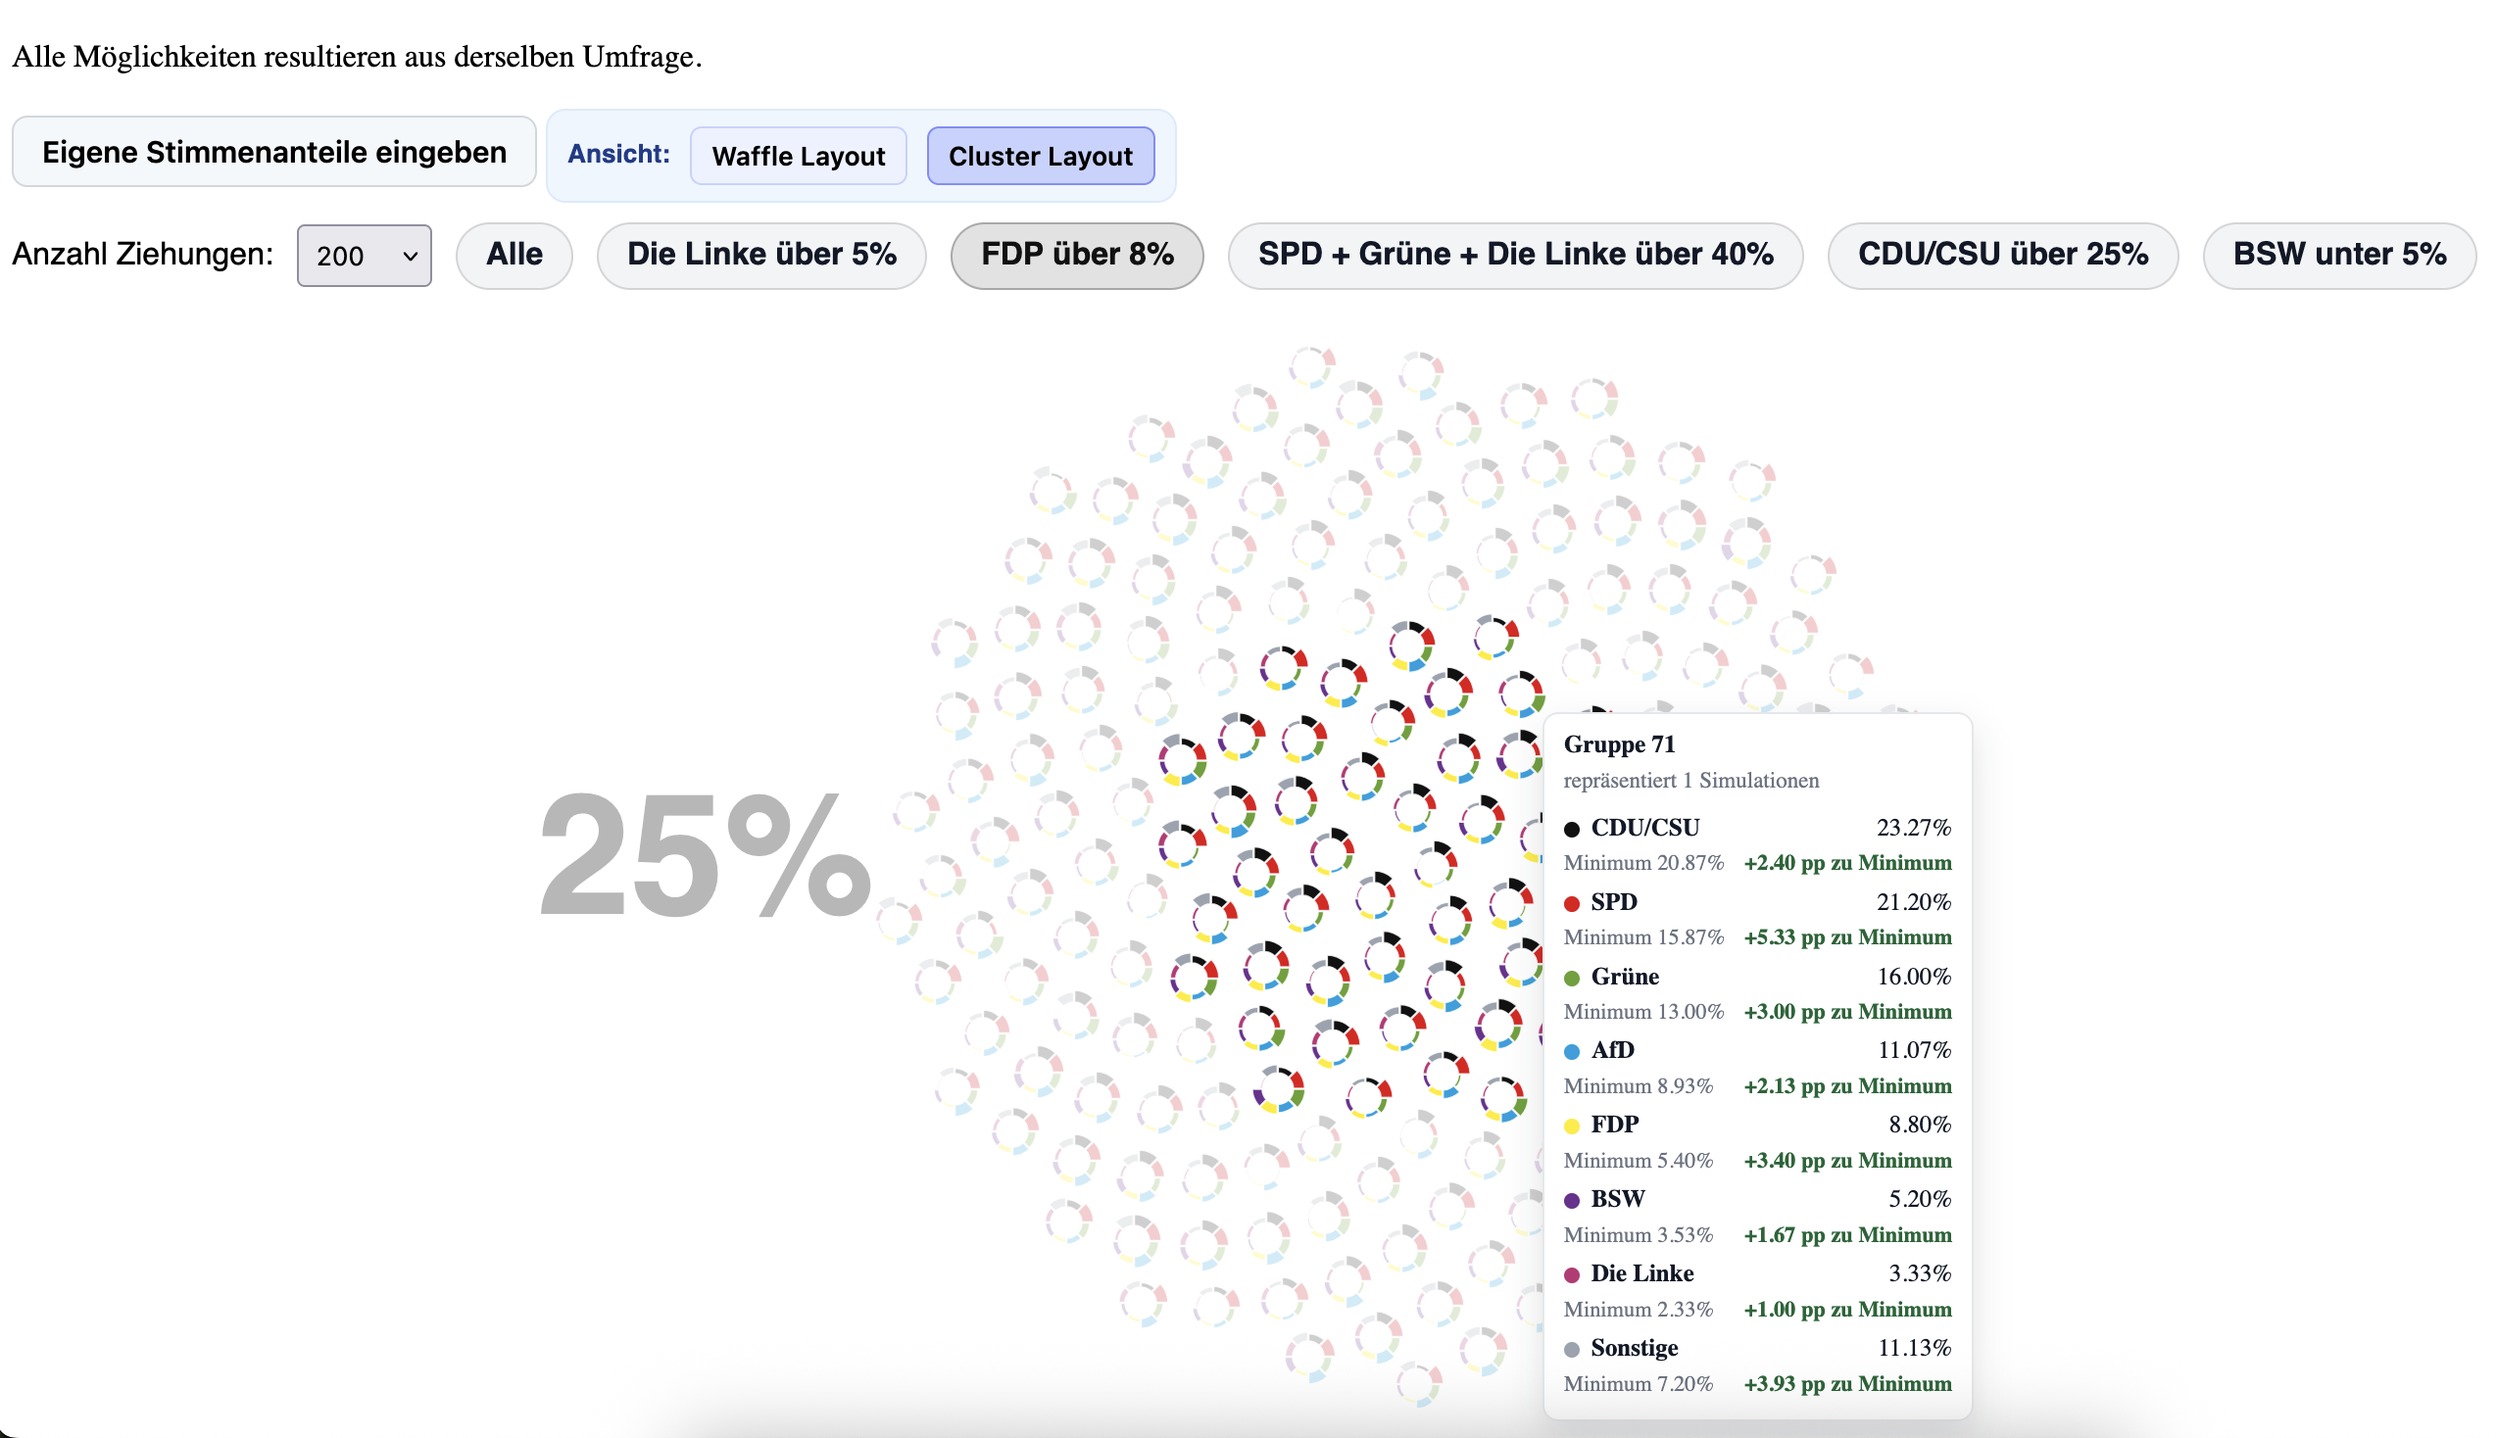
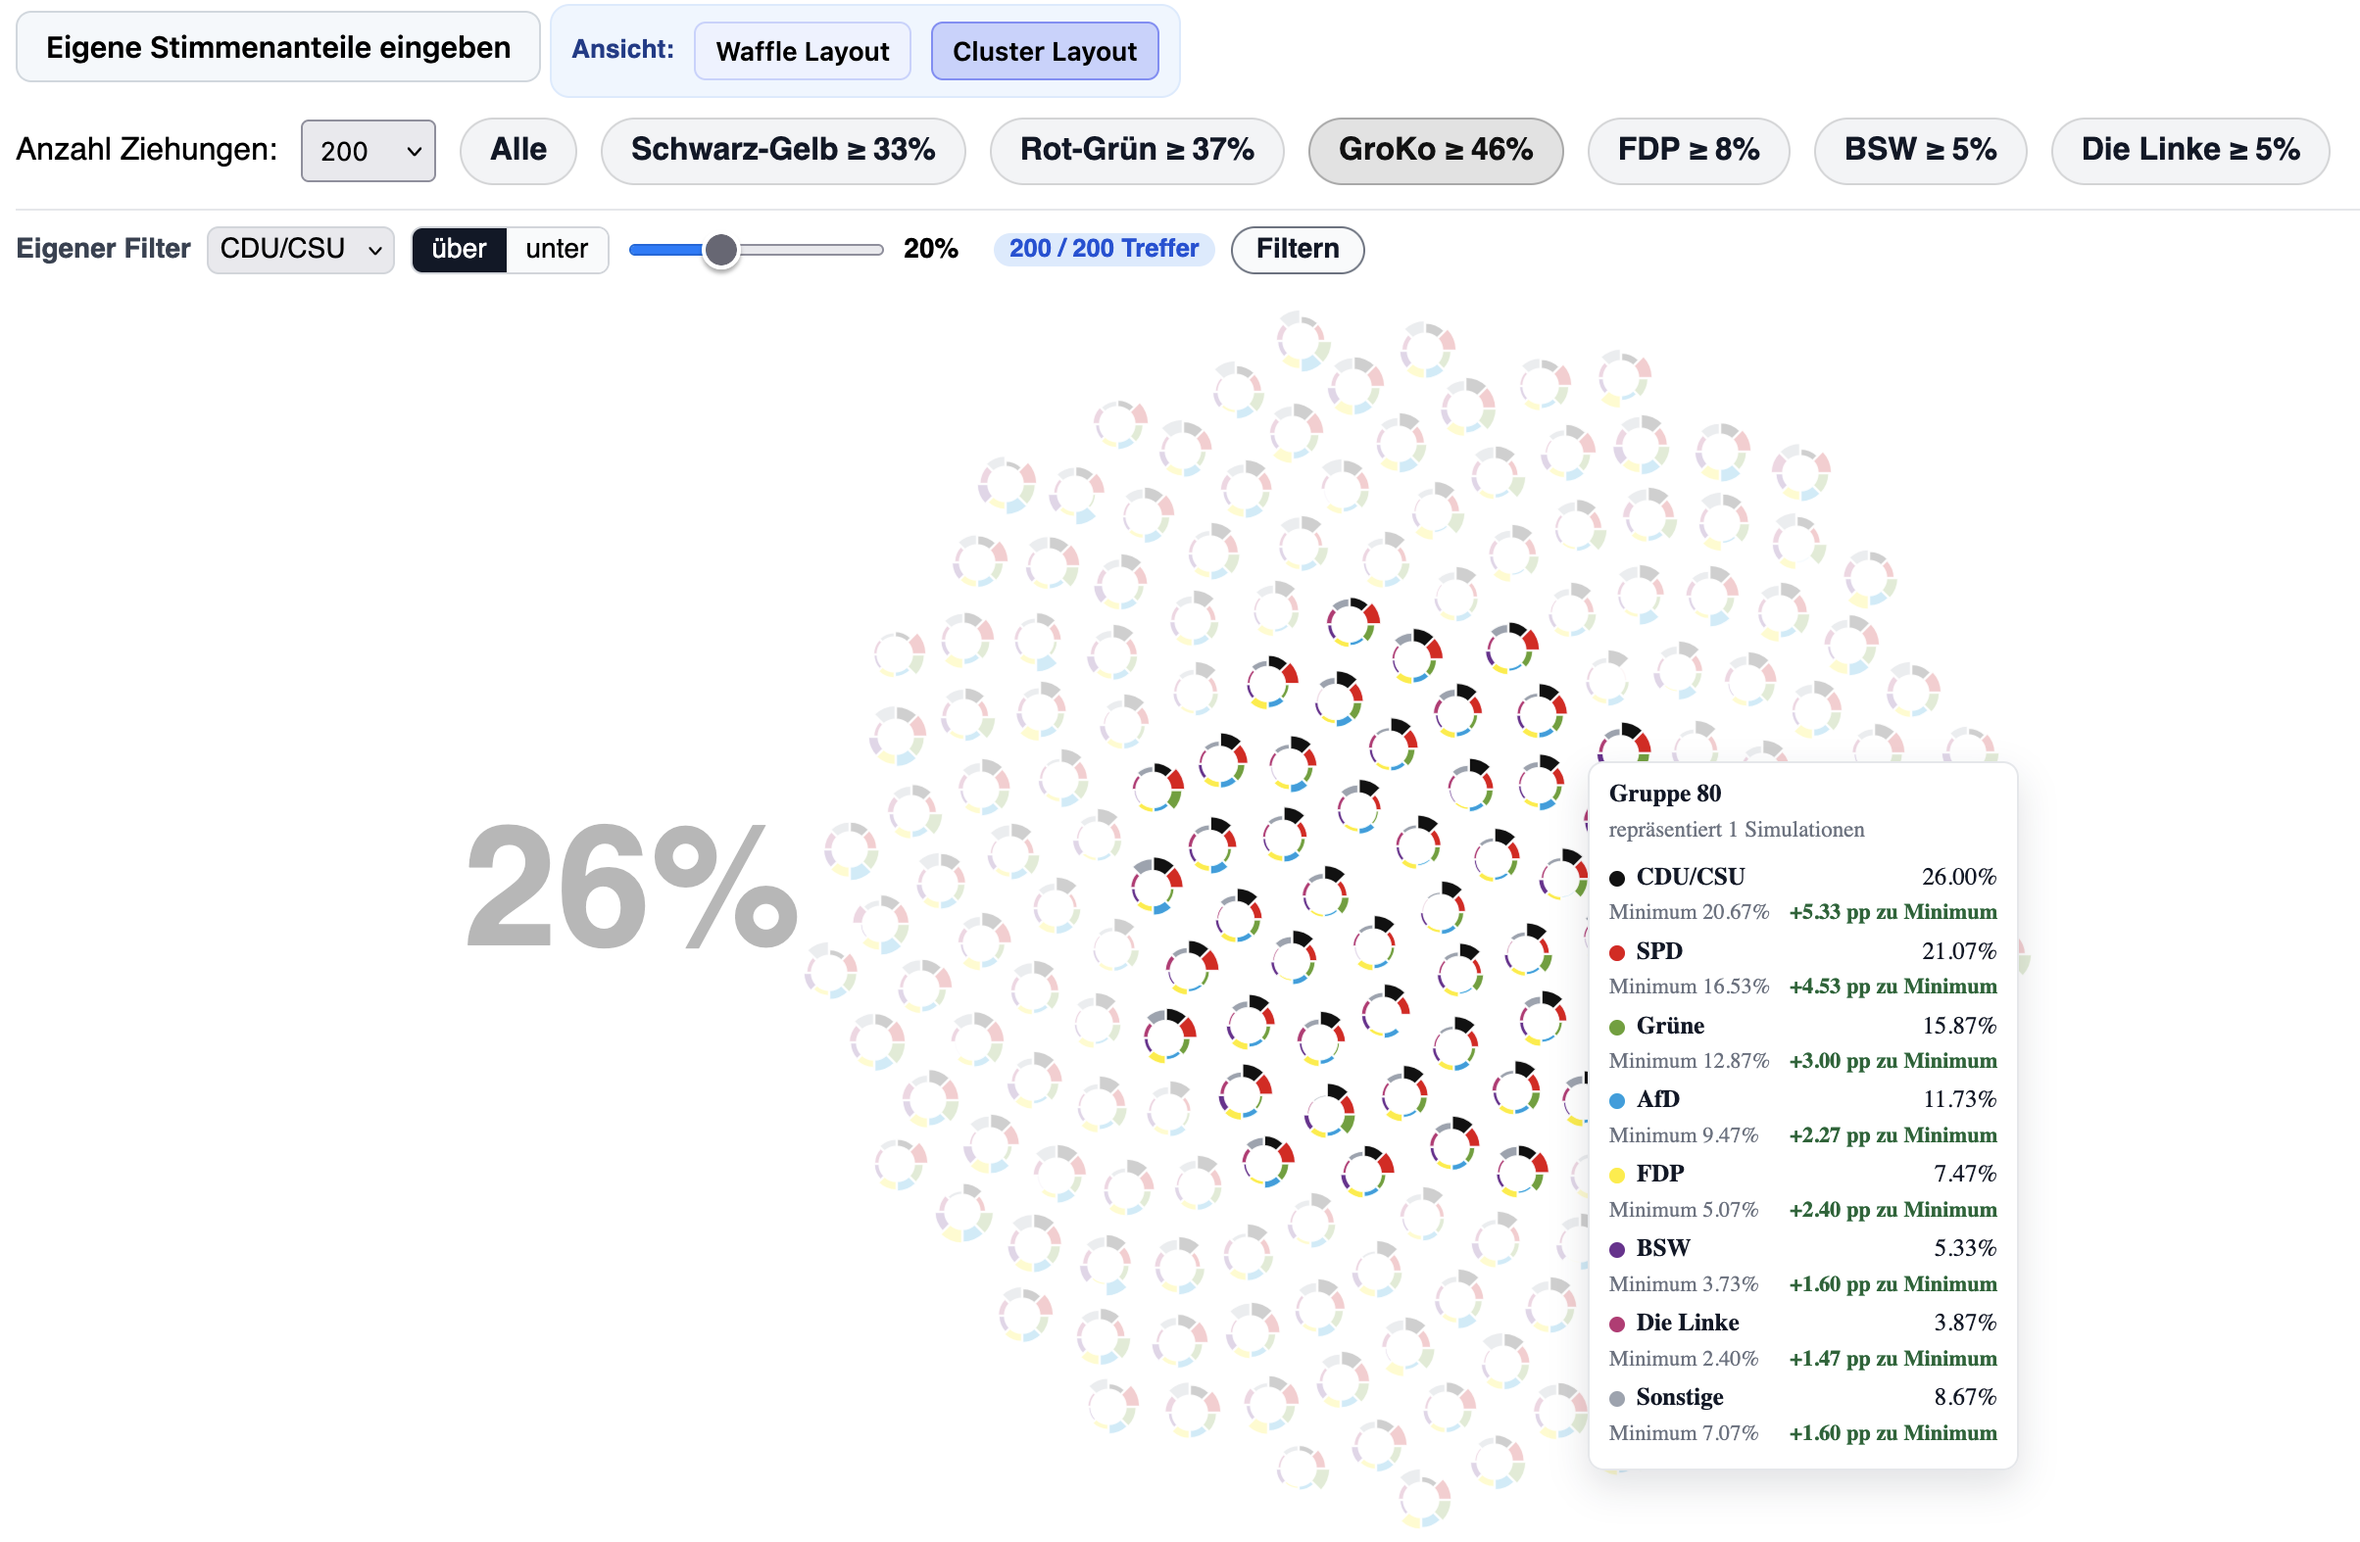
Update readme

Changed region(s): [[0.1869, 0.2146, 0.8721, 1.0], [0.0, 0.0, 0.9967, 0.2146], [0.7787, 0.0613, 0.9967, 0.1226]]

diff --git a/README.md b/README.md
@@ -8,14 +8,15 @@ An interactive visualization of possible German federal election outcomes using 
 
 - **Monte Carlo simulation** — Each draw samples 1 500 virtual voters according to the configured party vote shares and records how the votes are distributed. By default 200 draws are shown; you can increase this up to a large number using the controls.
 - **Two layout modes**
-  - _Cluster_ — donuts sorted and coloured by their dominant party to reveal natural groupings.
-  - _Waffle_ — donuts laid out in a phyllotaxis spiral, optionally split into two columns by a scenario filter.
+  - _Cluster_ — donuts sorted and coloured by their dominant party to reveal natural groupings. This is the default view.
+  - _Waffle_ — donuts arranged in a simple sorted grid. When a scenario filter is active the grid splits into two labelled columns.
 
   | Cluster view                                   | Waffle view                                  |
   | ---------------------------------------------- | -------------------------------------------- |
   | ![Cluster view](static/screenshot-cluster.png) | ![Waffle view](static/screenshot-waffle.png) |
 
-- **Scenario filters** — Quickly highlight draws that match predefined political scenarios (e.g. FDP above 5 %, SPD + Greens + Linke above 40 %).
+- **Scenario filters** — Preset coalition scenarios (e.g. Schwarz-Gelb ≥ 33%, GroKo ≥ 46%, BSW ≥ 5%) highlight matching draws. Filters that produce zero matches are visually dimmed.
+- **Custom filter** — Pick any party, choose above or below a threshold, and drag a slider to set the percentage. A live match count updates as you drag. Activate with "Filtern", clear with "× aufheben".
 - **Hover tooltip** — Hovering or focusing a donut shows the exact vote shares for that draw together with the minimum share seen across all draws. The tooltip stays fully on screen regardless of cursor position.
 - **Custom vote shares** — A button opens a popup form where you can enter your own vote percentages for each party. "Others" is calculated automatically so the total always sums to 100 %. If the editable values exceed 100 % a warning appears and the form cannot be submitted. On submit the simulation immediately reruns with the new inputs.
 
@@ -44,6 +45,7 @@ src/
       SimulationLayout.svelte     ← visual rendering stage (donuts + FLIP animations)
       LayoutSwitch.svelte         ← waffle / cluster toggle
       ScenarioControls.svelte     ← count selector + scenario filter buttons
+      CustomFilter.svelte         ← custom party/threshold filter with live preview
       scenarios.js                ← scenario definitions and filtering helpers
       simulation.js               ← Monte Carlo math
       layout.js                   ← phyllotaxis and waffle position helpers
